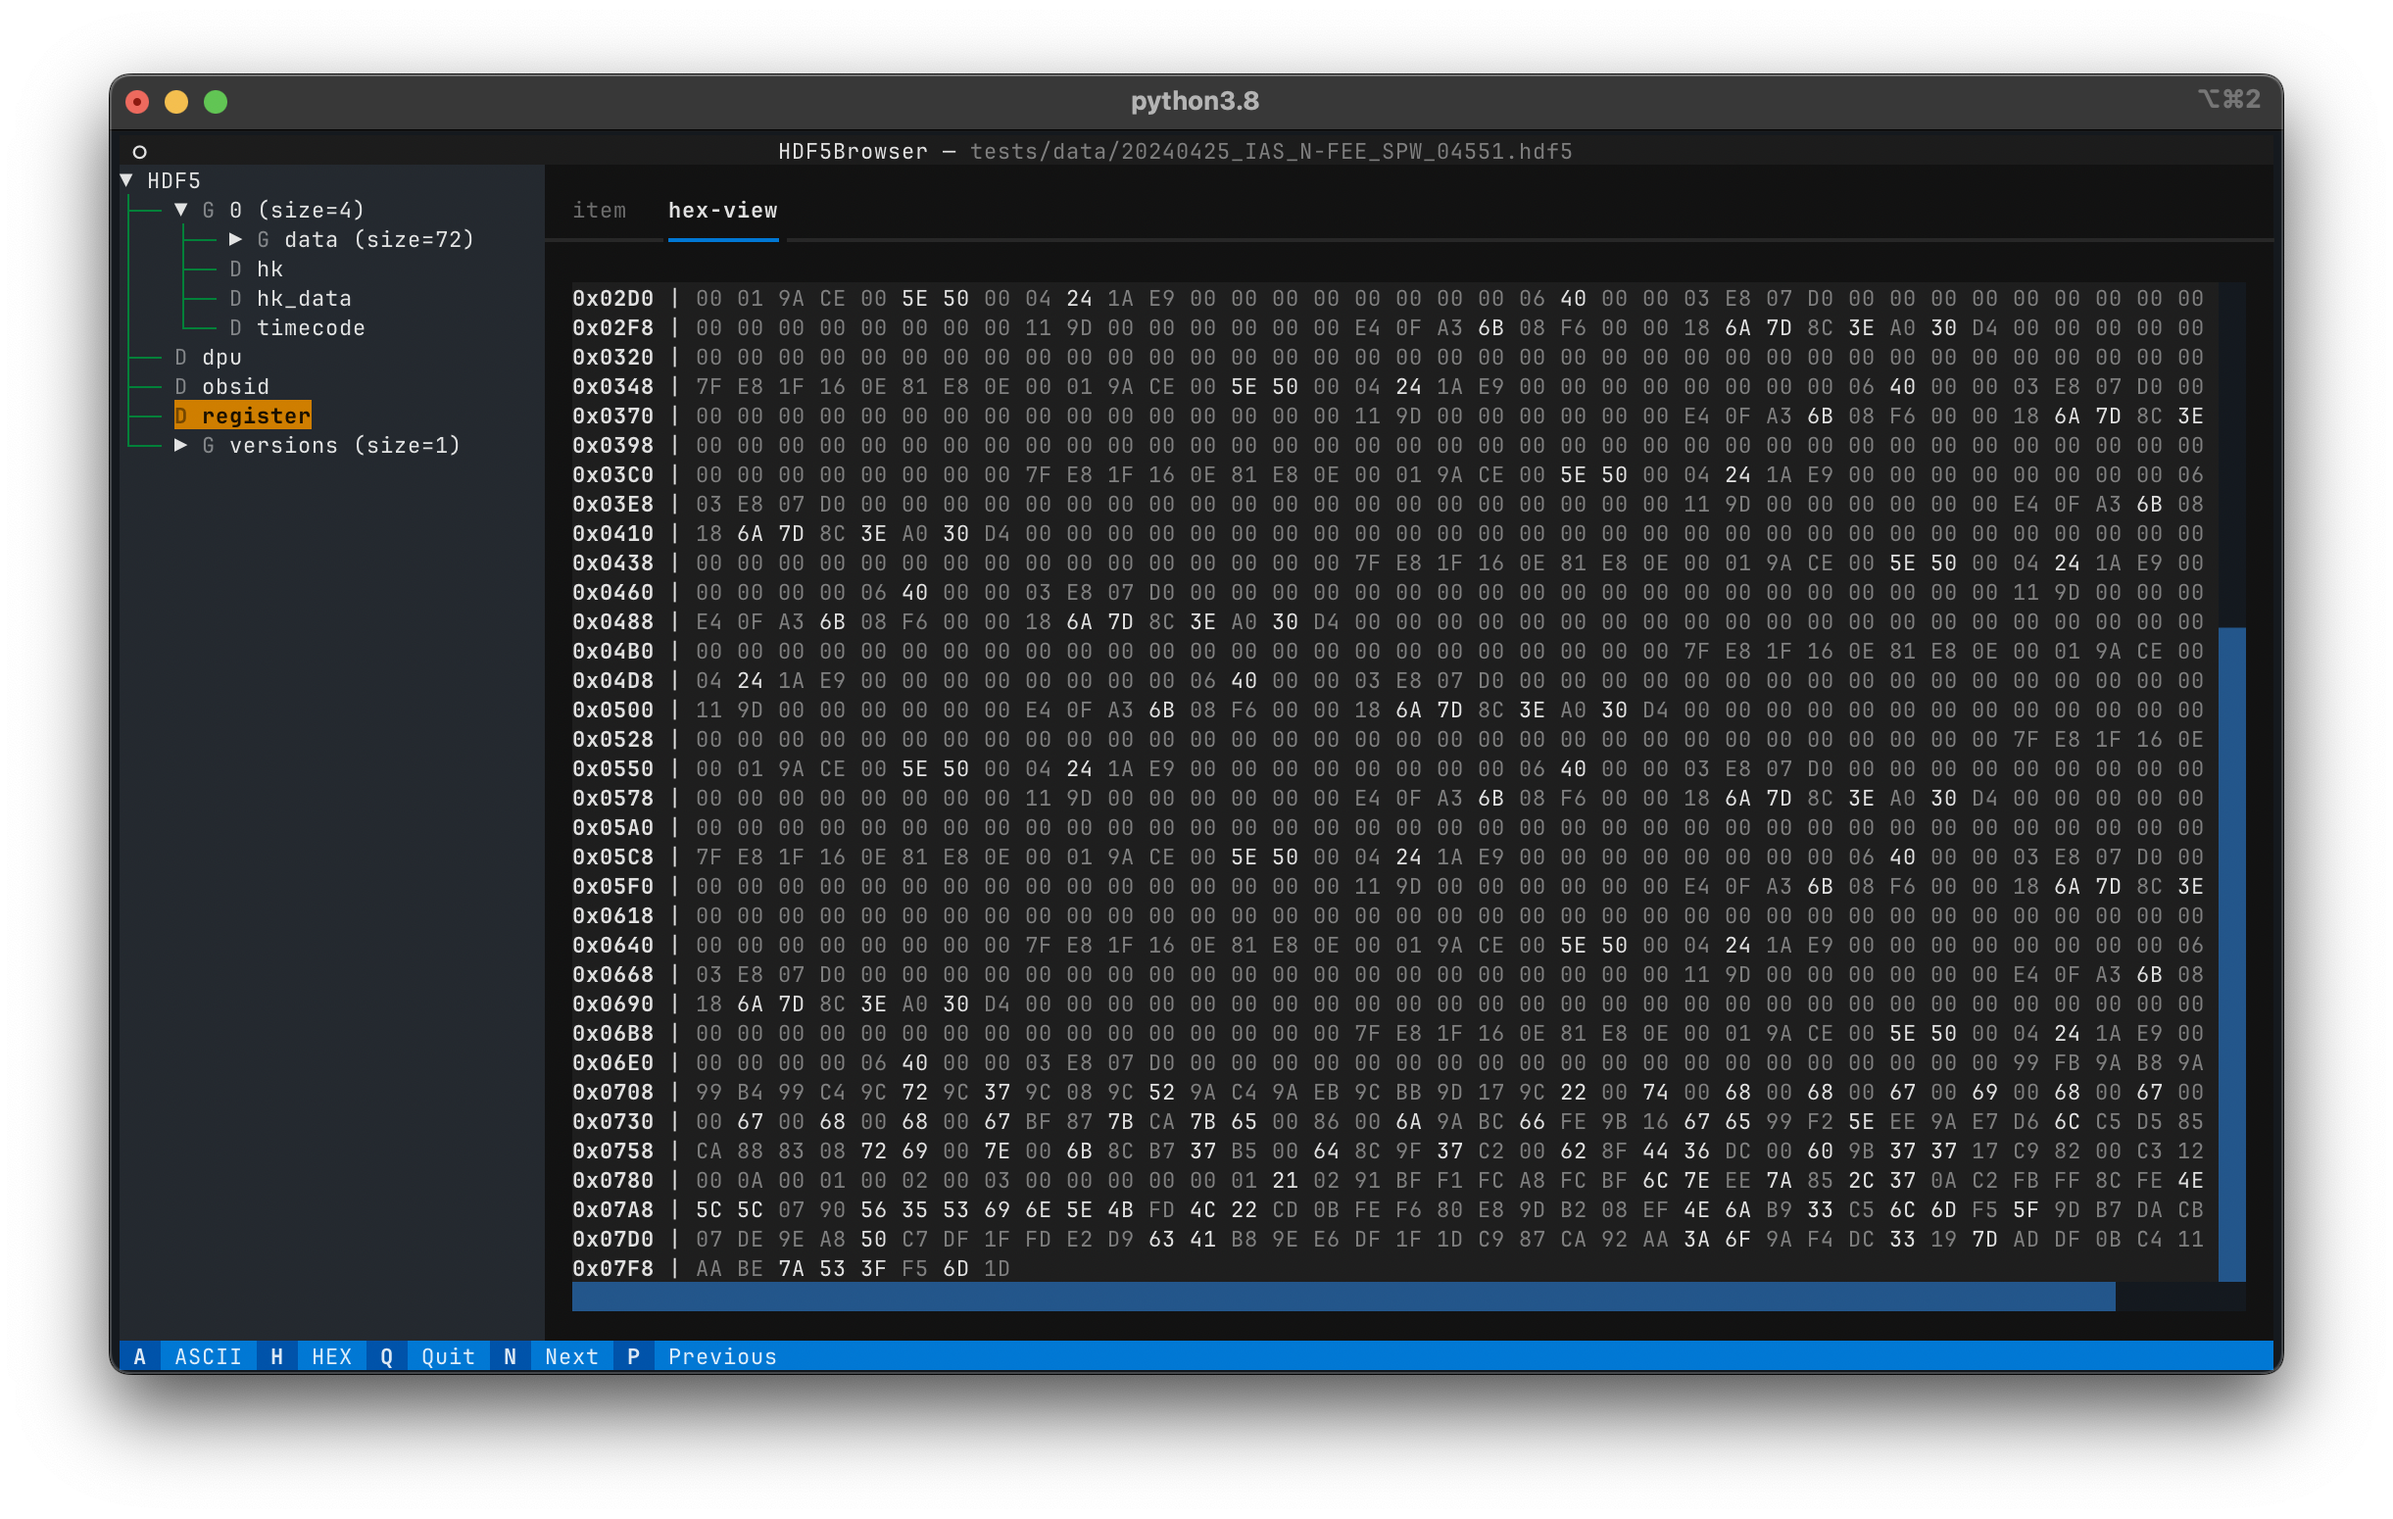
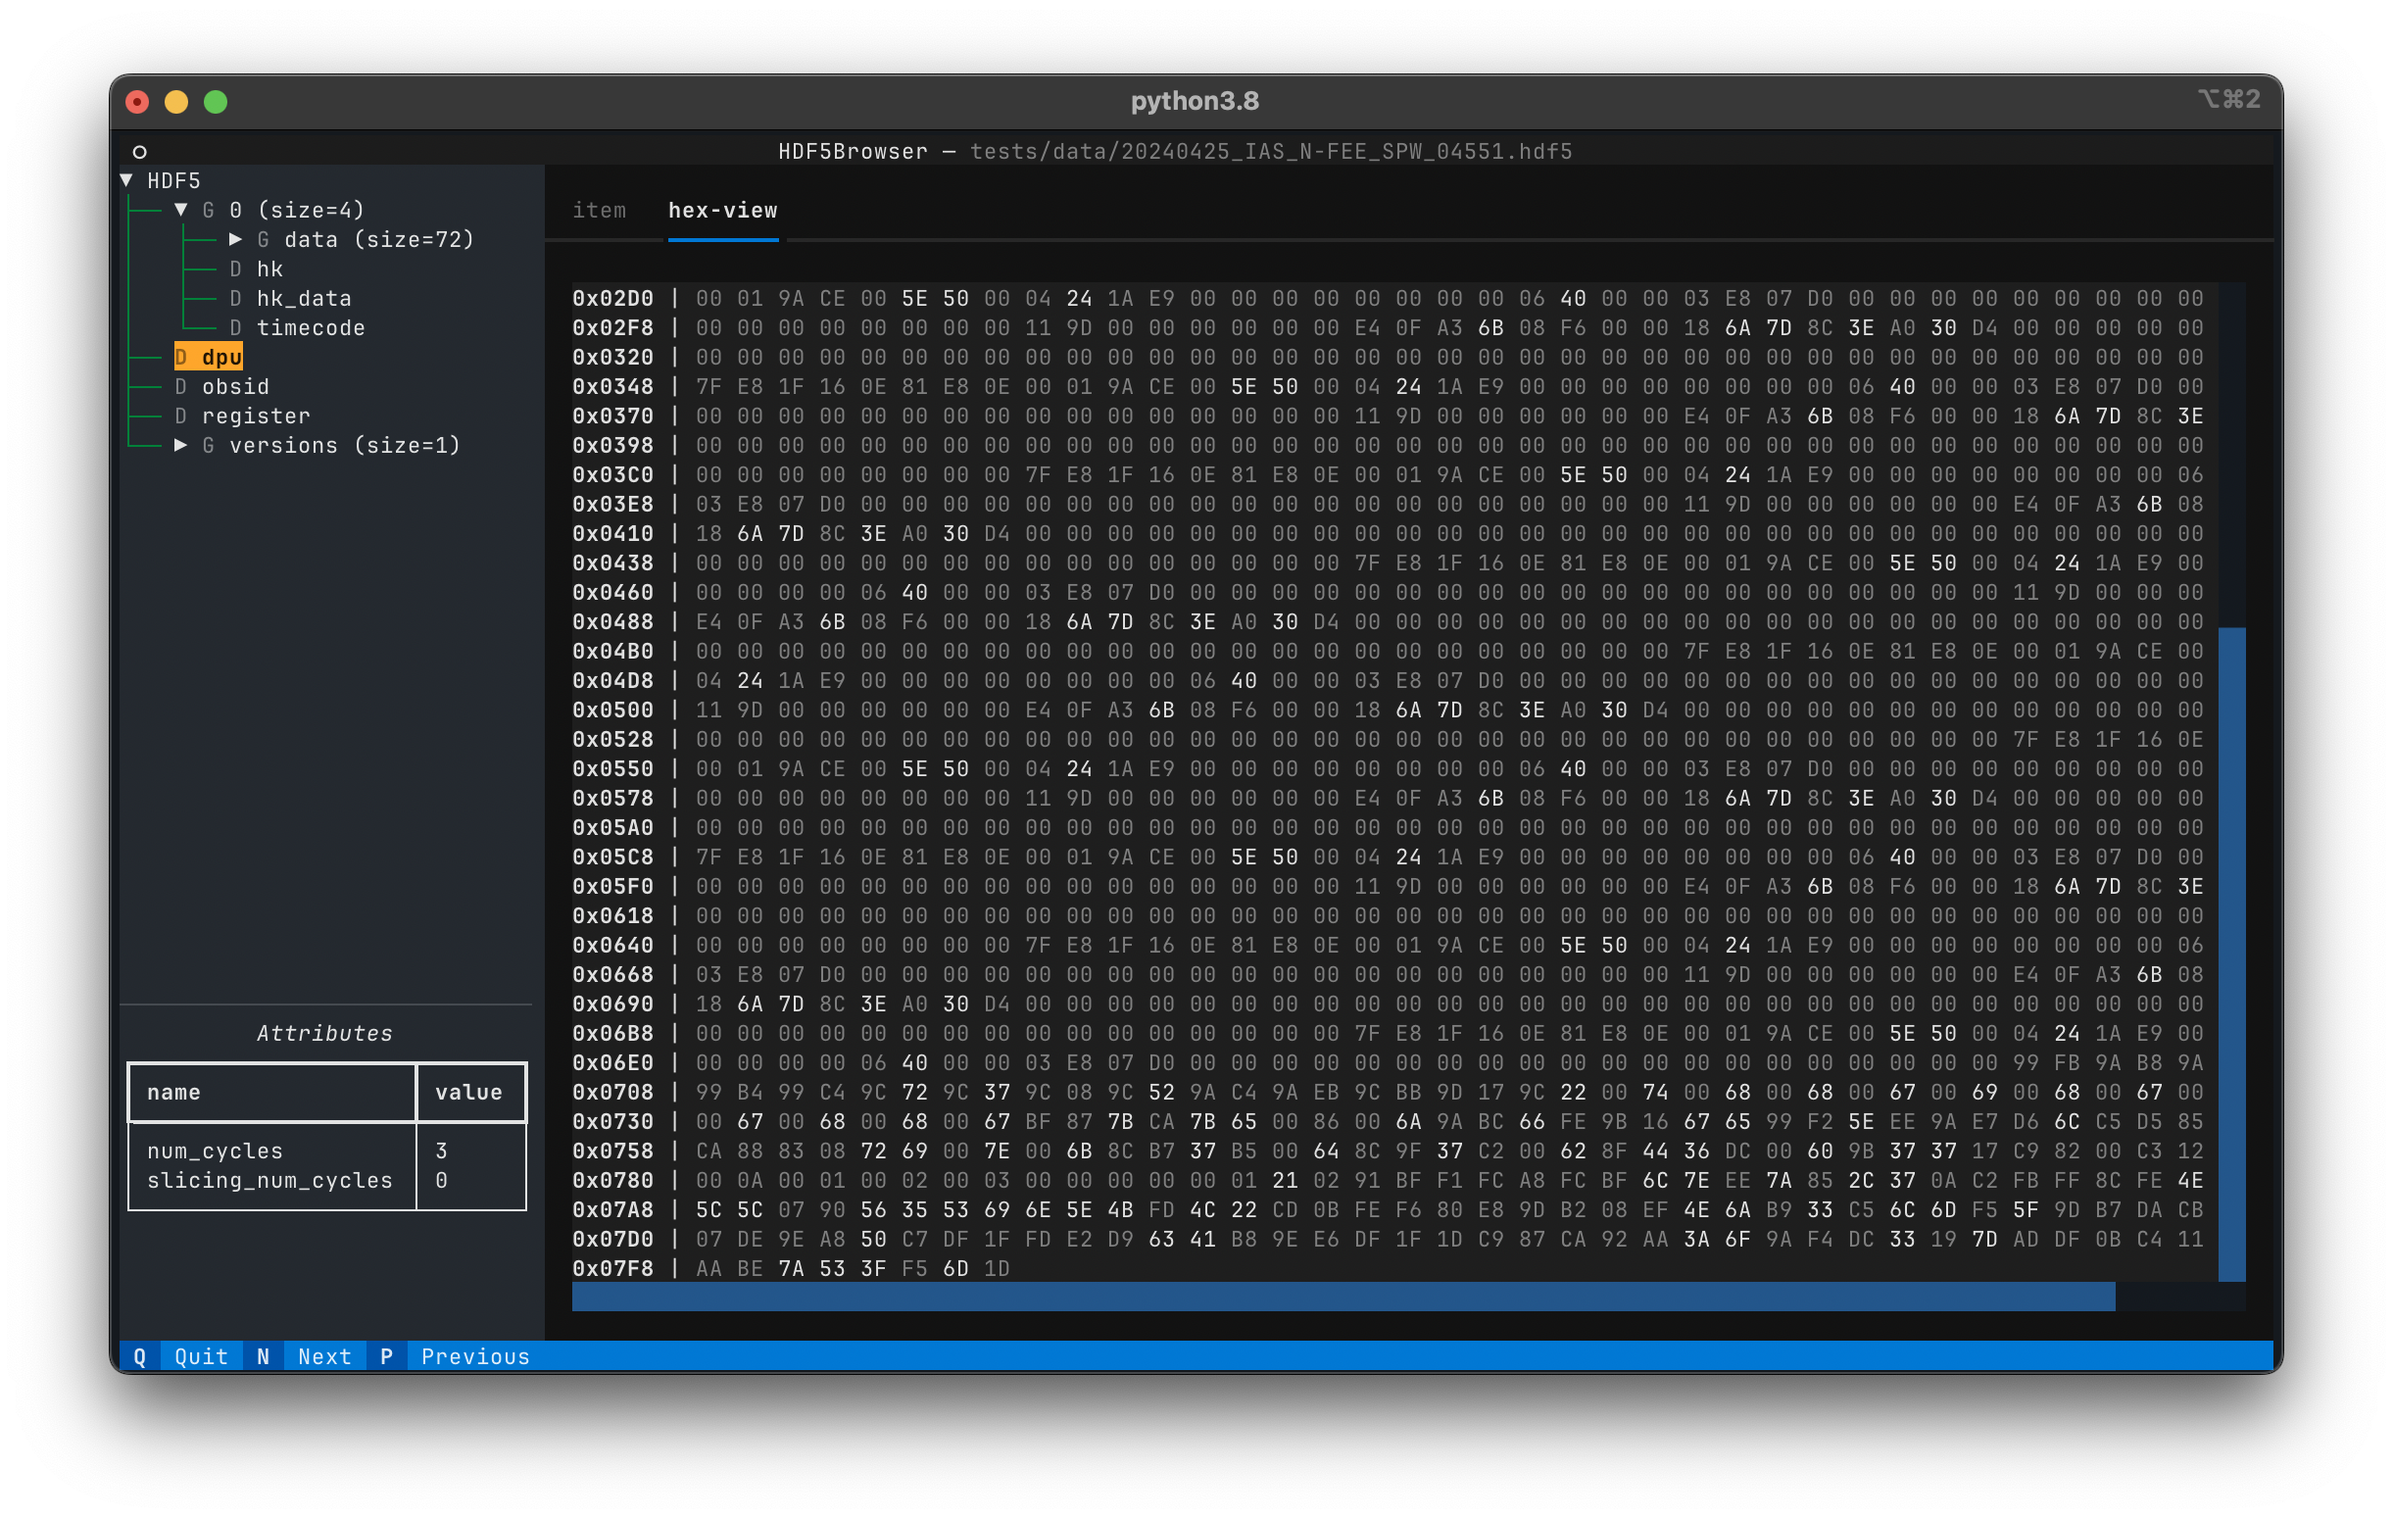
updated README.md

diff --git a/README.md b/README.md
@@ -4,6 +4,17 @@ This App is developed with [Textual](https://www.textualize.io).
 
 ![](https://raw.githubusercontent.com/rhuygen/hdf5_ui/develop/docs/images/hdf5tui_ex01.png)
 
+# Feature
+
+This TUI is currently in beta and lacks a lot of features. Following is a list implemented features:
+
+- Press 'p' and 'n' to load the 'previous' or 'next' HDF5 file. This is useful when inspecting a range of HDF5 files at the same location and you want to quickly browse through them.
+- Content of the HDF5 file is reflected in the tree structure at the left. 
+- If a node has attributes attached, they will be displayed at the bottom-left when the node is highlighted.
+- Plugins:
+  - The App loads all known plugins at startup and uses these plugins to visualize the information they can handle.
+  - Two example plugins have been included: HexViewer, and ImageViewer.
+
 # License
 
 This App is distributed under the MIT license.

diff --git a/TODO.md b/TODO.md
@@ -1,7 +1,8 @@
 # Unprioritized Roadmap
 
-- add a file selector to load a new HDF5 file
-- add JPEG and PNG viewer widget (plugin?)
-- add object information: type, number of attributes, path (e.g. /versions/format_version)
-- add hex viewer widget
-- add markdown viewer for datasets that contain markdown text (maybe leave this as a plugin?)
+- [ ] add a file selector to load a new HDF5 file
+- [x] add JPEG and PNG viewer widget (plugin)
+- [ ] add object information: type, number of attributes, path (e.g. /versions/format_version)
+- [x] add hex viewer widget
+- [ ] add markdown viewer for datasets that contain markdown text (maybe leave this as a plugin?)
+- [ ] configuration options, e.g. which plugins to use/enable
